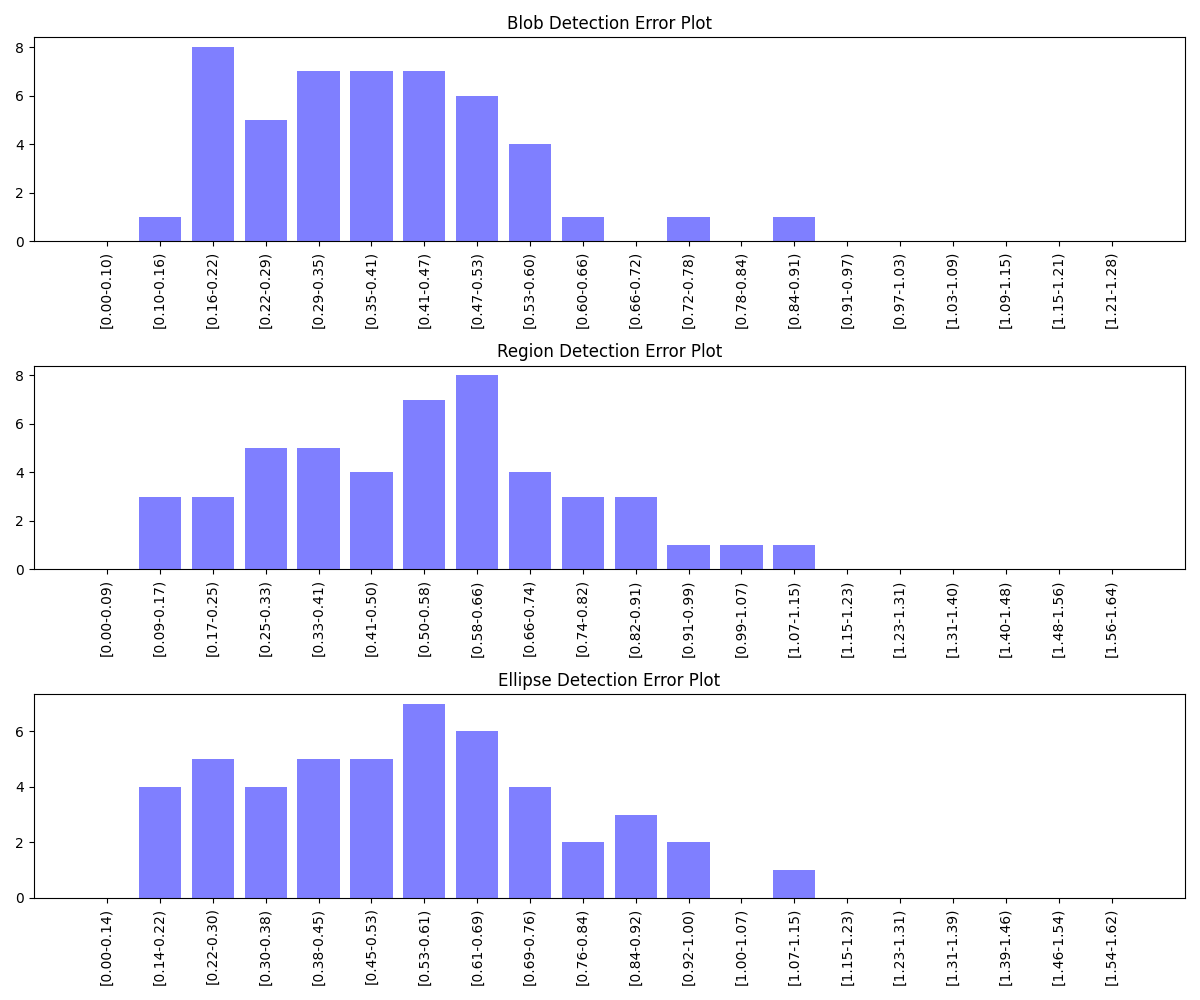
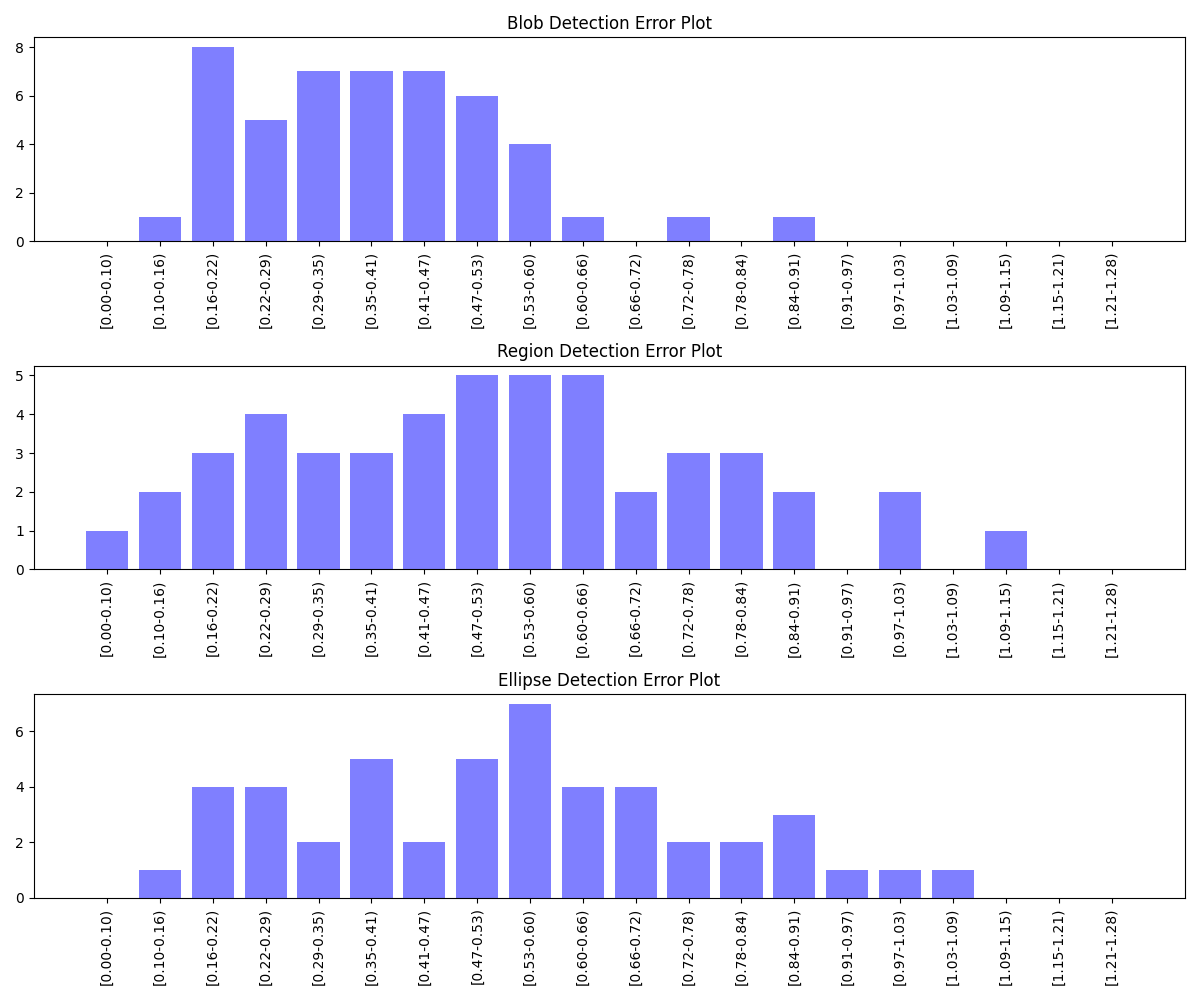
fix: use first interval set

diff --git a/centroid-detection/histograms/histogram.py b/centroid-detection/histograms/histogram.py
@@ -50,9 +50,10 @@ for f in range(3):
                 err.append(dist)
     print(err)
 
-    intervals = np.linspace(min(err), max(err) * 1.5, bars)
-    intervals = list(intervals)
-    intervals = [0.0] + intervals
+    if f == 0:
+        intervals = np.linspace(min(err), max(err) * 1.5, bars)
+        intervals = list(intervals)
+        intervals = [0.0] + intervals
 
     heights = [0 for i in intervals[1:]]
     xs = list(range(len(heights)))
